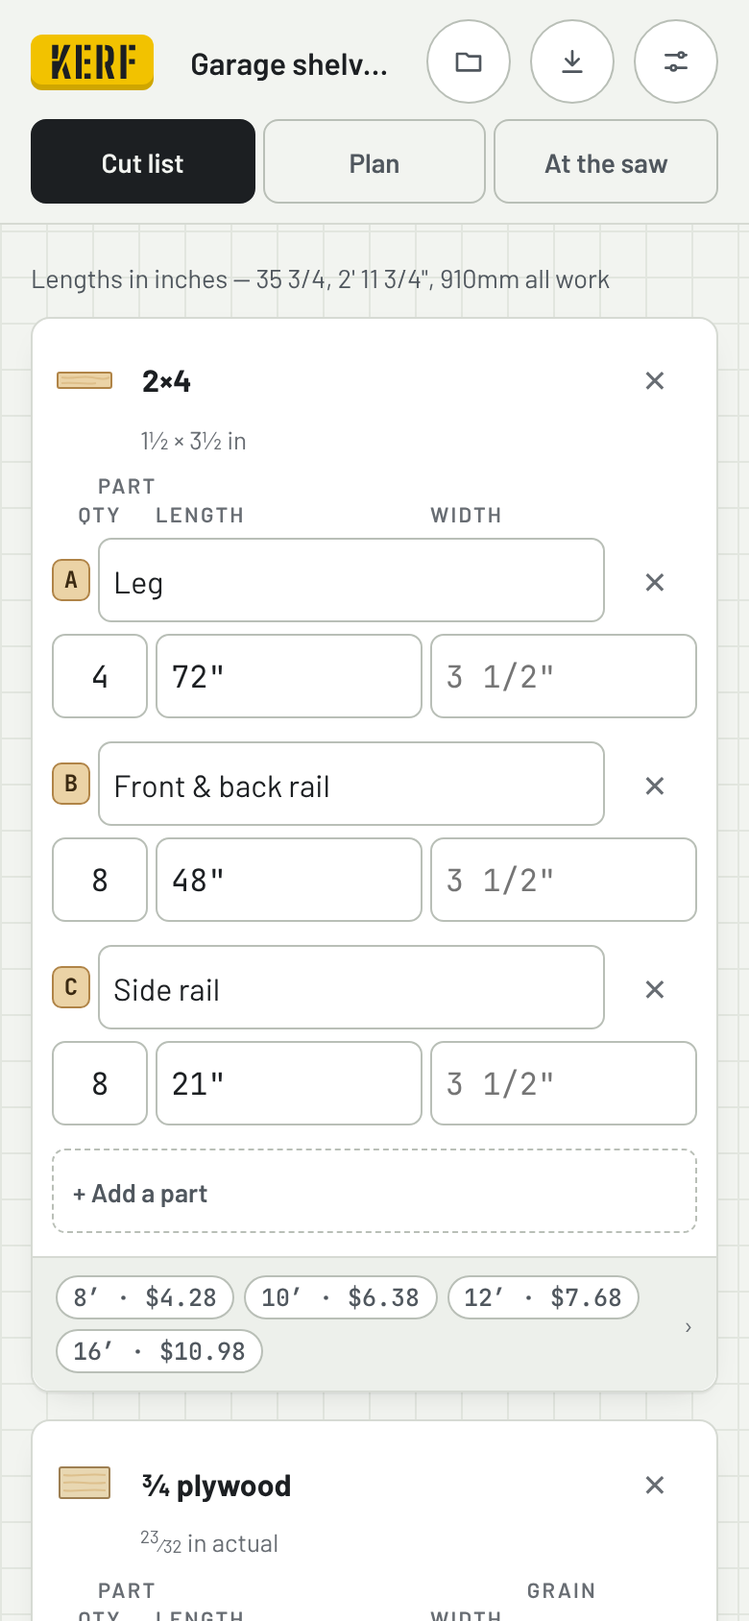
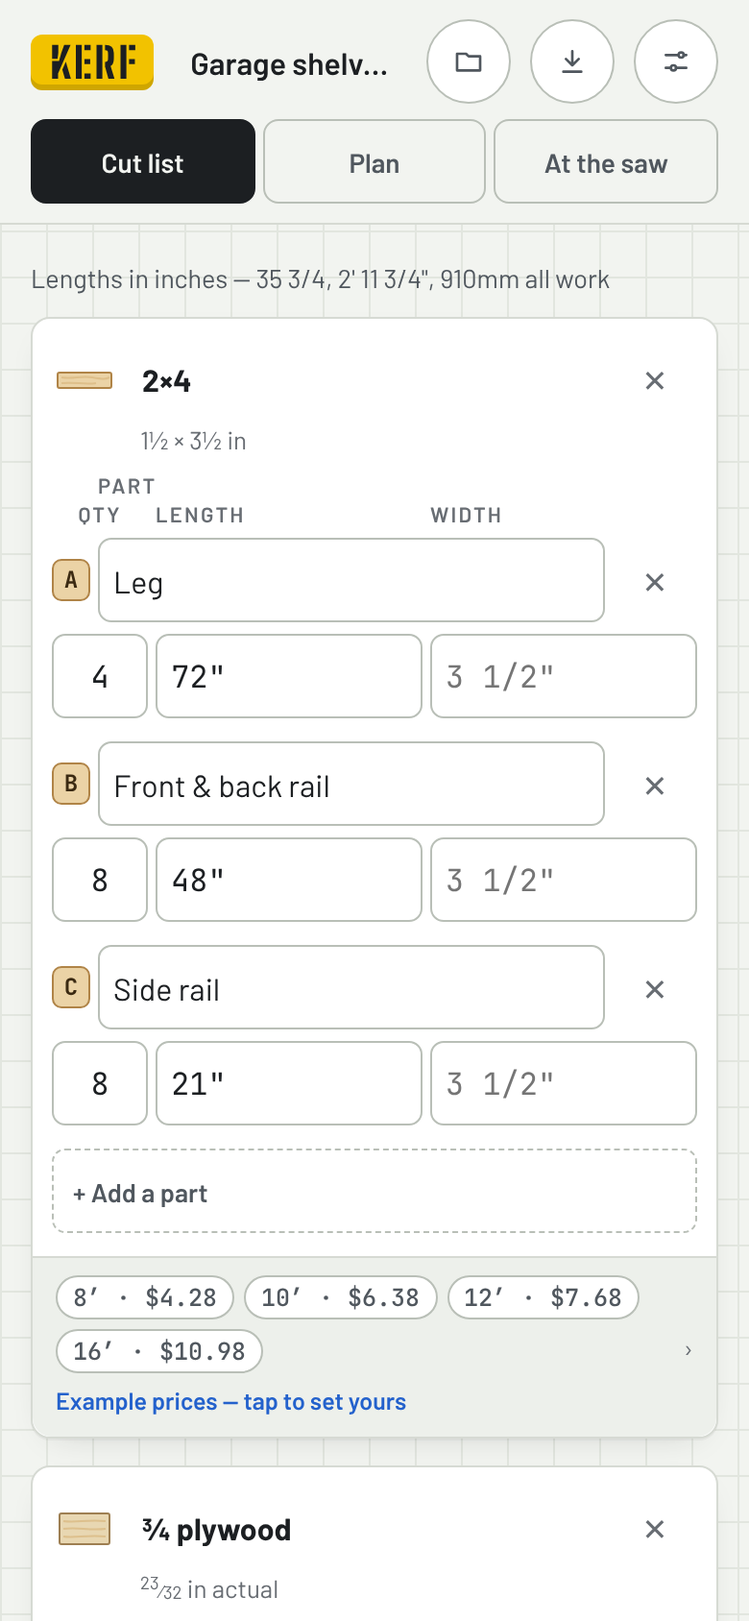
Remember your prices for each kind of wood, and say when a material's are examples
Answers "Remember your prices for each kind of wood": every new material started at the example prices, with the
price drawer closed, so the same store prices were typed again in every project. Kerf now remembers, in this
browser, the last prices set for each kind on the Add material list (2×4, ¾ plywood...), size by size, under
kerf.prices apart from the projects, and the next one added starts at them. A material still on the examples,
including the example project's, says "Example prices — tap to set yours" under its sizes until a price is
changed; it's saved as examplePrices, kept by files and links and documented in the planner's format. The e2e checks
the line, the prices remembered and used in the same project and a new one, a sheet by its size, Other board, and
a file round trip. The picture of the cut list shows the line. FILES in sw.js follows.

Claude-Session: https://claude.ai/code/session_01PQbLNSZBMRZG8siQy7LTL3

diff --git a/index.html b/index.html
@@ -151,6 +151,8 @@ input.bad{border-color:var(--bad);background:var(--bad-soft)}
 .stock .chips{display:flex;flex-wrap:wrap;gap:5px;min-width:0}
 .chip{display:inline-flex;align-items:center;gap:4px;background:var(--surface);border:1px solid var(--line2);border-radius:999px;padding:2px 8px;font:500 12.5px var(--mono);color:var(--ink2);white-space:nowrap}
 .chip.have{border-style:dashed;color:var(--good)}
+.stock .eg{flex-basis:100%;color:var(--chalk);font-size:12.5px;font-weight:600}
+.stock[open] .eg{display:none}
 .stock-bd{padding:0 12px 12px}
 .srow{display:grid;grid-template-columns:minmax(0,1fr) 88px 110px 30px;gap:6px;align-items:center;padding:3px 0}
 .sheetmat .srow{grid-template-columns:minmax(0,1fr) minmax(0,1fr) 80px 110px 30px}
@@ -621,6 +623,28 @@ textarea{width:100%;min-height:110px;font:13px var(--mono);background:var(--surf
   }
   // What Other board and Other sheet start with.
   function otherPreset(kind, units) { return kind === 'board' ? { name: 'Board', note: '', stock: units === 'mm' ? [[2400, 5]] : [[96, 5]] } : { name: 'Sheet', note: '', stock: units === 'mm' ? [[2440, 1220, 40]] : [[96, 48, 40]] }; }
+  // Your prices: the last ones you set for each kind on the Add material list (a 2×4, ¾ plywood), kept in this browser
+  // apart from the projects, under kerf.prices, as { 'in board 2×4': { '96': 3.98, '120': 5.97 }, 'in sheet ¾ plywood':
+  // { '96x48': 52 } }. A new material of that kind starts at them; one that starts at the examples instead says so
+  // (`examplePrices`) until a price is changed. A material is that kind by its name, as the planner writes it too.
+  var PRICES = 'kerf.prices';
+  function presetOf(m, units) { var n = String(m.name || '').trim().toLowerCase(); return PRESETS[units][m.kind].filter(function (pr) { return pr.name.toLowerCase() === n; })[0] || null; }
+  function sizeKey(m, s) { var k = function (v) { return String(Math.round(v * 1000) / 1000); }; return m.kind === 'sheet' ? k(s.len) + 'x' + k(s.wid) : k(s.len); }
+  function yourPrices() { try { var o = JSON.parse(localStorage.getItem(PRICES)); return o && typeof o === 'object' && !Array.isArray(o) ? o : {}; } catch (e) { return {}; } }
+  function rememberPrices(m, units) {
+    var pr = presetOf(m, units); if (!pr) return;
+    var all = yourPrices(), key = units + ' ' + m.kind + ' ' + pr.name, mine = all[key] && typeof all[key] === 'object' ? all[key] : {};
+    m.stock.forEach(function (s) { if (!s.have) mine[sizeKey(m, s)] = +s.price || 0; });
+    all[key] = mine;
+    try { localStorage.setItem(PRICES, JSON.stringify(all)); } catch (e) { } // not kept, a new one starts at the examples
+  }
+  // A new material, from the Add material list: at your prices for its sizes where you've set them, else the examples.
+  function newMaterial(kind, preset, units) {
+    var m = materialFrom(kind, preset, units), pr = presetOf(m, units), mine = pr && yourPrices()[units + ' ' + kind + ' ' + pr.name], got = false;
+    if (mine && typeof mine === 'object') m.stock.forEach(function (s) { var v = mine[sizeKey(m, s)]; if (typeof v === 'number' && v >= 0 && isFinite(v)) { s.price = Math.round(v * 100) / 100; got = true; } });
+    if (!got) m.examplePrices = true;
+    return m;
+  }
   // A sheet part has a width and a grain; a board part may have a width (0 or none being the board's).
   function part(name, qty, len, wid, grain) { var p = { id: uid(), name: name, qty: qty, len: len }; if (wid != null) p.wid = wid; if (grain != null) p.grain = grain !== false; return p; }
   function blankProject(units) { return { id: uid(), name: 'Untitled project', units: units, kerf: units === 'mm' ? 3 / 25.4 : 0.125, trim: 0, edge: 0, keep: units === 'mm' ? 300 / 25.4 : 12, cur: CUR, updated: Date.now(), materials: [], done: {} }; }
@@ -631,6 +655,7 @@ textarea{width:100%;min-height:110px;font:13px var(--mono);background:var(--surf
     studs.parts = [part('Leg', 4, 72), part('Front & back rail', 8, 48), part('Side rail', 8, 21)];
     var ply = materialFrom('sheet', PRESETS.in.sheet[0], 'in');
     ply.parts = [part('Shelf', 4, 47.75, 23.75, true)];
+    studs.examplePrices = ply.examplePrices = true;
     p.materials = [studs, ply];
     return p;
   }
@@ -674,6 +699,7 @@ textarea{width:100%;min-height:110px;font:13px var(--mono);background:var(--surf
         fix(m, 'kind', function (v) { return v === 'board' || v === 'sheet'; }, function () { return 'board'; });
         fix(m, 'name', str, toStr('')); fix(m, 'note', str, toStr(''));
         if (m.kind === 'board' && m.wid != null) fix(m, 'wid', num, toNum(0));
+        if (m.examplePrices !== undefined && m.examplePrices !== true) { delete m.examplePrices; lost = true; }
         list(m, 'stock').forEach(function (s) { ['len', 'price', 'have'].concat(m.kind === 'sheet' ? ['wid'] : []).forEach(function (k) { fix(s, k, num, toNum(0)); }); });
         list(m, 'parts').forEach(function (q) {
           fix(q, 'name', str, toStr('')); ['qty', 'len'].concat(m.kind === 'sheet' ? ['wid'] : []).forEach(function (k) { fix(q, k, num, toNum(0)); });
@@ -1564,12 +1590,14 @@ textarea{width:100%;min-height:110px;font:13px var(--mono);background:var(--surf
     for (var s = ''; i >= 0; i = Math.floor(i / 26) - 1) s = String.fromCharCode(65 + i % 26) + s;
     return s;
   }
+  // The sizes and prices under a material, and while its prices are still Kerf's examples, a line saying so (a tap opens
+  // the drawer, and then it hides).
   function stockSummary(m) {
     return m.stock.map(function (s) {
       // in mm a sheet is in mm (1219 × 2438 mm), not 1.219 m×2.438 m or 609.5 mm×1.219 m; a board is as the plan has it
       var dims = m.kind !== 'sheet' ? fmtH(s.len, { ft: true }) : U === 'mm' ? sheetSize(s.wid, s.len) : fmtH(s.wid, { ft: true }) + '×' + fmtH(s.len, { ft: true });
       return '<span class="chip' + (s.have ? ' have' : '') + '">' + dims + ' · ' + (s.have ? s.have + ' on hand' : esc(money(+s.price || 0))) + '</span>';
-    }).join('');
+    }).join('') + (m.examplePrices ? '<span class="eg">Example prices — tap to set yours</span>' : '');
   }
   // A length in a field: in mm the bare number, so the field stays short (the cut list says it's in mm) and a phone can
   // offer its number pad; in inches as a tape reads, with the letter keyboard for the ' and " marks. Either way finely
@@ -1618,7 +1646,7 @@ textarea{width:100%;min-height:110px;font:13px var(--mono);background:var(--surf
           '<button class="icon" type="button" data-a="delstock" aria-label="Remove the ' + nm + ' size">✕</button></div>';
       });
       h += '<div class="addrow"><button class="lbtn" type="button" data-a="addstock">+ Size to buy</button><button class="lbtn" type="button" data-a="addhave">+ Offcut I already have</button></div>' +
-        '<p class="hint">Prices start as examples — set them to what your store charges. Offcuts you have are free, and used whenever they save buying.</p></div></details></article>';
+        '<p class="hint">Prices start as examples — set them to what your store charges. For each kind under Add material, Kerf remembers your prices in this browser, and the next one you add starts at them. Offcuts you have are free, and used whenever they save buying.</p></div></details></article>';
     });
     // the columns' names, for the fields' names
     h += '<span id="c-qty" hidden>Quantity</span><span id="c-len" hidden>Length</span><span id="c-wid" hidden>Width</span><span id="c-grain" hidden>Keep grain along the length</span>';
@@ -1683,6 +1711,7 @@ textarea{width:100%;min-height:110px;font:13px var(--mono);background:var(--surf
         // what's left must be one number: "3439.98.00", a new price typed after an old one, is marked and not used
         var n = t.replace(/[^\d.]/g, ''), bad = !!t && (n.split('.').length > 2 || !(parseFloat(n) >= 0));
         v = parseFloat(n); el.classList.toggle('bad', bad); if (!bad) s.price = v >= 0 ? Math.round(v * 100) / 100 : 0; // to the cent, so the shopping list adds up to its total
+        if (!bad) { delete m.examplePrices; rememberPrices(m, U); }
       }
       else if (f === 'have') {
         // "Have 1" on a size you buy means you own one of them, not that it's all there is: the size stays on the list to
@@ -1780,7 +1809,7 @@ textarea{width:100%;min-height:110px;font:13px var(--mono);background:var(--surf
     var b = e.target.closest('button'); if (!b) return;
     if (b.dataset.add) {
       var k = b.dataset.add.split(':'), kind = k[0], pre = k[1] === 'x' ? otherPreset(kind, U) : PRESETS[U][kind][+k[1]];
-      var m = materialFrom(kind, pre, U); P.materials.push(m); touch(); renderList(); resolve(); addPart(m, 'pname');
+      var m = newMaterial(kind, pre, U); P.materials.push(m); touch(); renderList(); resolve(); addPart(m, 'pname');
       // A board or sheet not on the list gets its name first, typed over the plain 'Board' or 'Sheet'.
       if (k[1] === 'x') { var nm = document.querySelector('.mat[data-mid="' + m.id + '"] .mat-name'); nm.focus(); nm.select(); }
       return;
@@ -2627,6 +2656,7 @@ textarea{width:100%;min-height:110px;font:13px var(--mono);background:var(--surf
           return part(pname, qty, num(r.len, 0, 1200), sheet ? num(r.wid, 0, 1200) : num(r.wid, 0, 1200) || null, sheet ? r.grain !== false : null);
         }) };
       if (!sheet && num(m.wid, 0, 1200)) c.wid = num(m.wid, 0, 1200); // a board's width, for parts ripped narrower
+      if (m.examplePrices === true) c.examplePrices = true; // its prices are still Kerf's examples
       if (!c.stock.length && c.parts.length) { c.stock = materialFrom(c.kind, otherPreset(c.kind, units), units).stock; notes.push(name + ' came with no size to buy, so it has Kerf’s usual ' + (sheet ? 'sheet' : 'board') + '. Check the sizes.'); }
       return c;
     }).filter(function (m) { return m.stock.length; }); // with no size and no parts, there's nothing in it

diff --git a/sw.js b/sw.js
@@ -8,7 +8,7 @@
 // fingerprint of every file in SHELL: change any of them and test/e2e.mjs fails until FILES is changed to match (it
 // says what to), which changes this file, so every copy is made whole again at once.
 const CACHE = 'kerf-v4'; // bump the number when the file list changes
-const FILES = '6d8e27b6'; // test/e2e.mjs checks this
+const FILES = '666e85b4'; // test/e2e.mjs checks this
 const SHELL = [
   './', 'index.html', 'carry.js', 'icon.svg', 'icon-180.png', 'icon-192.png', 'icon-512.png', 'icon-512-maskable.png',
   'manifest.webmanifest',

diff --git a/README.md b/README.md
@@ -5,7 +5,7 @@
 **A cut-list optimizer for lumber and plywood.** List the parts a project needs; Kerf works out the cheapest boards and sheets to buy, draws how to cut each one, and gives you a checklist to work through at the saw. It plans construction lumber and sheet goods bought by the piece, a 2×4 or a sheet of plywood at a price each, not hardwood sold by the board foot. It installs as an app (from the browser's menu, or Share → Add to Home Screen on an iPhone) and works offline once it has loaded.
 
 <p align="center">
-  <img src="docs/phone-list.png" alt="The cut list for a set of garage shelves: how to type lengths, then the 2×4 legs, front and back rails and side rails, each named on one line with its quantity, length and width below (the width left blank, showing the board's 3½ inches), above the 2×4 sizes you can buy and what they cost" width="250">
+  <img src="docs/phone-list.png" alt="The cut list for a set of garage shelves: how to type lengths, then the 2×4 legs, front and back rails and side rails, each named on one line with its quantity, length and width below (the width left blank, showing the board's 3½ inches), above the 2×4 sizes you can buy and what they cost, with a line saying the prices are examples to set" width="250">
   &nbsp;
   <img src="docs/phone-plan.png" alt="The plan: $100.64 to buy, the 2×4s the cheapest possible, for 8 boards and 1 sheet in 26 cuts, a tip that making the front and back rails 47 15/16 inches instead of 48 means spending $4.12 less on 2×4 and leaves no spare length on the 8-foot boards, and the shopping list" width="250">
   &nbsp;
@@ -25,7 +25,7 @@
 - **Shop PDF.** A printable sheet with the shopping list (and the offcuts worth keeping and the project's notes under it) and every diagram, drawn to read in black and white: parts white, offcuts and what's left of a sheet hatched and labelled with their size. Boards cut alike are drawn once, and parts are named where they fit, as in the plan on a wide screen. It's the checklist at the saw on paper too, with a box to tick before every cut the saw counts: under each row of boards come their cuts in order, each with its measurement and part and a box for every board in the row (numbered over them, or one box and the count for more than 16), and each sheet's numbered steps start with a box, its trims first.
 - **Projects** are kept in the browser's local storage, with no account and no server. To move one to another device, save it as a file or copy it as text, then open or paste it there. Deleting one takes two taps, and the toast after it has **Undo** for a few seconds, which brings the project back where it was in the list, ticks and all. With Kerf open in two windows, a project added, changed or deleted in one shows up in the other, and so does one brought back. If the browser won't keep them (its storage is full, or cookies are blocked), a strip under the top bar says so until a save works, with a button to save the project as a file.
 
-Settings per project: saw kerf (⅛″ by default; a thin-kerf 3/32″ or 2.2 mm shows as typed, there and on the shop PDF), trimming each board end square, trimming sheet edges (that much comes off each factory edge of a sheet before any other cut: each sheet is planned that much smaller all round, its steps start with **Trim the factory edges**, and a part that fits only with the edges left on says so), the smallest offcut worth keeping (an offcut that shows as that length counts, though the sums leave it a hair short), and the currency sign. The preset prices are examples; change them to what your store charges.
+Settings per project: saw kerf (⅛″ by default; a thin-kerf 3/32″ or 2.2 mm shows as typed, there and on the shop PDF), trimming each board end square, trimming sheet edges (that much comes off each factory edge of a sheet before any other cut: each sheet is planned that much smaller all round, its steps start with **Trim the factory edges**, and a part that fits only with the edges left on says so), the smallest offcut worth keeping (an offcut that shows as that length counts, though the sums leave it a hair short), and the currency sign. The preset prices are examples, and a material still on them says *Example prices — tap to set yours* under its sizes until a price is changed. Kerf remembers the last prices you set for each kind on the Add material list (a 2×4, ¾ plywood), size by size, in this browser (under `kerf.prices` in local storage, apart from the projects), and the next one you add starts at them; a material is that kind by its name.
 
 ## How it plans
 
@@ -72,7 +72,7 @@ The format is the project JSON, compressed with raw DEFLATE and base64url-encode
 
 ## Project files
 
-A saved project is JSON: `{"kerf": 1, "project": {…}}`. Lengths are stored in inches whatever the display units. Opening a file, or pasting a project's text into Projects, shows what's in it and asks first, the way a link does. It keeps only fields Kerf understands and clamps the numbers, so a hand-edited file can't break the page. It opens up to 100 materials, 50 sizes and 1000 parts in each, names up to 200 characters, notes up to 2,000, and lengths up to 1200″ (100 ft), well past what the cut list makes, so whatever Kerf saves opens again whole; past those limits it keeps the first and says what it left out before adding anything. A part asking for more than Kerf plans of one part (500 of a board part, 300 of a sheet part) says so where it opens, and keeps its count. A board material's `wid` is its board's width, and a board part's `wid` a part ripped narrower (none, or 0, is the whole board). A part with no count comes in as one, a sheet part with no grain as grain-locked, and a material with parts but no size to buy gets the size **Other board** or **Other sheet** starts with, with a note to check it. Something with nothing Kerf can read in it says so instead of adding an empty project.
+A saved project is JSON: `{"kerf": 1, "project": {…}}`. Lengths are stored in inches whatever the display units. Opening a file, or pasting a project's text into Projects, shows what's in it and asks first, the way a link does. It keeps only fields Kerf understands and clamps the numbers, so a hand-edited file can't break the page. It opens up to 100 materials, 50 sizes and 1000 parts in each, names up to 200 characters, notes up to 2,000, and lengths up to 1200″ (100 ft), well past what the cut list makes, so whatever Kerf saves opens again whole; past those limits it keeps the first and says what it left out before adding anything. A part asking for more than Kerf plans of one part (500 of a board part, 300 of a sheet part) says so where it opens, and keeps its count. A material with `"examplePrices": true` is still on Kerf's example prices, and says so in the cut list. A board material's `wid` is its board's width, and a board part's `wid` a part ripped narrower (none, or 0, is the whole board). A part with no count comes in as one, a sheet part with no grain as grain-locked, and a material with parts but no size to buy gets the size **Other board** or **Other sheet** starts with, with a note to check it. Something with nothing Kerf can read in it says so instead of adding an empty project.
 
 In the browser, projects are kept under `kerf.v1` in local storage, with the number of the format they're saved in, `v` (now 1), raised whenever that shape changes. A page that finds a higher number, saved by a newer Kerf in another window, doesn't read it, take it in or write over it: it stops saving and asks for a reload. If that's ever damaged, by a browser add-on or a hand edit, Kerf repairs what it can, keeps the text as it was under `kerf.v1.bad`, and says so in a strip under the top bar, with a button to save that copy as a file (`kerf-damaged.txt`).
 
@@ -111,7 +111,7 @@ To put it online with GitHub Pages: **Settings → Pages → Build and deploymen
 - **Sheets:** 100 jobs with parts that tile a sheet exactly or fill what a rip leaves, in inches and millimetres, some of them planned as strip layouts and some with the sheets' edges trimmed first, and 40 boards ripped into narrower parts, some with their ends trimmed. Sawn step by step, every cut runs edge to edge across the piece it names, at the distance it gives; each step's part is what's left on the near side of its cut, and "what's left is" the part beyond it; every part comes off whole and is named by exactly one step; and every offcut the drawing labels is a piece left over, of that size.
 - **A long run of edits:** 150 seeded edits in one session, with ticks at the saw, tips taken and going back to an earlier copy, and 150 more in a project with a 1×6 ripped into parts, its parts' widths and boards' widths changing too: after each, the plan kept between edits is the one a fresh start finds, every tip still shown saves what it says, and every tick is on the cut it was made on.
 
-`test/e2e.mjs` uses the real page in Chromium at phone size (it needs Playwright). It opens the example and checks its total, runs the kerf-planner skill's `make_kerf.py` on the plan in its instructions and opens the link and the file it writes, checking each part's name, count and length (skipped without `python3`), opens a link and a project file as the skill makes them (and broken links, links that picked up a full stop or a line break, the same project opened again by link, file and pasted text, a project of 201 parts saved as a file and opened whole, and what's past the limits, and on an iPhone, the note and Copy link for Kerf on the home screen), ticks cuts at the saw and reloads, gathers the offcuts worth keeping under the shopping list, on the shop PDF and at the saw once the job is done, keeps a project's notes through a reload and prints them on the shop PDF's first page, names the parts in the drawings at laptop width and on the shop PDF (a long name cut short to fit) but not on a phone, draws the example's boards cut alike once in the plan and the shop PDF and folds them at the saw (board 2 opens on a press, and by itself once board 1 is done, its ticks its own through a reload), draws a sheet's card at the saw (its heading, the next cut standing out in its drawing, the cuts ticked faded, the cuts' numbers, folding the drawing away through a tick), folds a finished board to its heading (focus stays on it, a tap opens it, and ticking its last cut again folds it), finishes a job (the bar says so, and only the last tick toasts, not a reload), keeps the screen on while the checklist shows, marks the next cut and opens at it, keeps the saw's bar in sight with a Next cut that goes to it, checks that ticks stay on their cuts through edits (another material's, a count changed and changed back, end trim turned on, a sheet part resized where it sits), checks the steps for boards that need a last cut or end trim, the second fence setting for a rip wider than what it leaves, a face frame ripped from a 1×6 (its plan, saw steps, ticks through a reload and shop PDF, the parts' widths in the cut list and Enter along them, the board's width taken away and put back, and a part wider than the board), Undo after removing a part, after Start over and after deleting a project (with a second window open, where it comes back too, while a deletion not undone stays deleted), the plan's warnings (on a phone, its "see the cut list" goes to the part that doesn't fit, and the saw's empty state has a button to the cut list) and drawings (labels that fit their parts, and cut numbers on the sheet clear of each other and of the part letters, and on a cabinet's, a 50-piece job's and a mudroom bench's crowded sheets at 320 and 390 wide, clear of every size as well), that an edit plans again only the material it changes (renaming a part or typing the notes plans nothing, and the new name shows in the plan, at the saw and in the cut list) and that a reload then finds the same plan, the shop PDF's layout (a sheet of 36 steps keeps its heading and the legend company) and its boxes to tick (one for each cut the saw counts, a box for each board in a row, the boards' cuts in order), a 3/32″ kerf and lengths typed to the 32nd or the tenth of a millimetre reading back as typed, tips, that typing a slow material's length at a phone's pace plans it once and Enter plans it at once, Enter along a part, from a material's name to its first part, on the project's name and through Settings, the dialogs from the keyboard, where focus goes after removing a part, a size or a material or using a tip, when Kerf saves and what it says when it can't (storage full, or blocked), two windows open at once (opened on a first visit, they show one example between them), and damaged storage. Throughout, nothing may scroll sideways, throw an error or load from elsewhere. Its server answers the way GitHub Pages does (files kept for ten minutes, then asked for again by ETag), and can go down or stall. At the end, in a window that has been to Kerf once, it opens with the server down (the example, every typeface, a link, a project file and the shop PDF) and within 8 seconds on a stalled connection; a new release's offline copy comes from the server, not the browser's ten-minute-old files; Chromium finds nothing stopping it from installing; every font, icon and script the page and the manifest load is in `sw.js`'s list; and `sw.js`'s `FILES` matches those files.
+`test/e2e.mjs` uses the real page in Chromium at phone size (it needs Playwright). It opens the example and checks its total, runs the kerf-planner skill's `make_kerf.py` on the plan in its instructions and opens the link and the file it writes, checking each part's name, count and length (skipped without `python3`), opens a link and a project file as the skill makes them (and broken links, links that picked up a full stop or a line break, the same project opened again by link, file and pasted text, a project of 201 parts saved as a file and opened whole, and what's past the limits, and on an iPhone, the note and Copy link for Kerf on the home screen), ticks cuts at the saw and reloads, gathers the offcuts worth keeping under the shopping list, on the shop PDF and at the saw once the job is done, keeps a project's notes through a reload and prints them on the shop PDF's first page, remembers the prices set for a 2×4 or ¾ plywood for the next one added (and says when a material is on example prices), names the parts in the drawings at laptop width and on the shop PDF (a long name cut short to fit) but not on a phone, draws the example's boards cut alike once in the plan and the shop PDF and folds them at the saw (board 2 opens on a press, and by itself once board 1 is done, its ticks its own through a reload), draws a sheet's card at the saw (its heading, the next cut standing out in its drawing, the cuts ticked faded, the cuts' numbers, folding the drawing away through a tick), folds a finished board to its heading (focus stays on it, a tap opens it, and ticking its last cut again folds it), finishes a job (the bar says so, and only the last tick toasts, not a reload), keeps the screen on while the checklist shows, marks the next cut and opens at it, keeps the saw's bar in sight with a Next cut that goes to it, checks that ticks stay on their cuts through edits (another material's, a count changed and changed back, end trim turned on, a sheet part resized where it sits), checks the steps for boards that need a last cut or end trim, the second fence setting for a rip wider than what it leaves, a face frame ripped from a 1×6 (its plan, saw steps, ticks through a reload and shop PDF, the parts' widths in the cut list and Enter along them, the board's width taken away and put back, and a part wider than the board), Undo after removing a part, after Start over and after deleting a project (with a second window open, where it comes back too, while a deletion not undone stays deleted), the plan's warnings (on a phone, its "see the cut list" goes to the part that doesn't fit, and the saw's empty state has a button to the cut list) and drawings (labels that fit their parts, and cut numbers on the sheet clear of each other and of the part letters, and on a cabinet's, a 50-piece job's and a mudroom bench's crowded sheets at 320 and 390 wide, clear of every size as well), that an edit plans again only the material it changes (renaming a part or typing the notes plans nothing, and the new name shows in the plan, at the saw and in the cut list) and that a reload then finds the same plan, the shop PDF's layout (a sheet of 36 steps keeps its heading and the legend company) and its boxes to tick (one for each cut the saw counts, a box for each board in a row, the boards' cuts in order), a 3/32″ kerf and lengths typed to the 32nd or the tenth of a millimetre reading back as typed, tips, that typing a slow material's length at a phone's pace plans it once and Enter plans it at once, Enter along a part, from a material's name to its first part, on the project's name and through Settings, the dialogs from the keyboard, where focus goes after removing a part, a size or a material or using a tip, when Kerf saves and what it says when it can't (storage full, or blocked), two windows open at once (opened on a first visit, they show one example between them), and damaged storage. Throughout, nothing may scroll sideways, throw an error or load from elsewhere. Its server answers the way GitHub Pages does (files kept for ten minutes, then asked for again by ETag), and can go down or stall. At the end, in a window that has been to Kerf once, it opens with the server down (the example, every typeface, a link, a project file and the shop PDF) and within 8 seconds on a stalled connection; a new release's offline copy comes from the server, not the browser's ten-minute-old files; Chromium finds nothing stopping it from installing; every font, icon and script the page and the manifest load is in `sw.js`'s list; and `sw.js`'s `FILES` matches those files.
 
 ### Files
 

diff --git a/skill/kerf-planner/references/kerf-format.md b/skill/kerf-planner/references/kerf-format.md
@@ -40,6 +40,7 @@ Kerf reads a project as JSON: from a file (**Projects → Open a project file**)
 | `materials[]` | Up to 100 materials | — |
 | `materials[].kind` | `"board"` (one cross-section; parts have a length) or `"sheet"` (parts have a length and a width) | `"board"` |
 | `materials[].name`, `note` | Shown as the material's title and subtitle, up to 200 characters each | `"Board"` or `"Sheet"`, and no note |
+| `materials[].examplePrices` | `true` while the material's prices are Kerf's own examples: the cut list says so until one is changed. Leave it out for prices you were given | none |
 | `materials[].wid` | Boards only: the board's actual width in inches (a 1×6 is 5.5), up to 1200. With it, board parts can have a `wid` too, and are ripped from the board | none, and board parts' widths are ignored |
 | `stock[]` | Up to 50 sizes per material, to buy or already on hand: `len` (and `wid` for sheets) in inches, up to 1200, a sheet's `len` being the way its grain runs (a 4×8 sheet is `len` 96, `wid` 48); `price` each, up to 100000; `have` = pieces on hand (0 = buy; on-hand pieces are free and used whenever they save buying; at most 10) | `price` 0, which makes the size free, so always give one; `have` 0 |
 | `parts[]` | Up to 1000 rows per material: `name` (up to 200 characters), `qty` (whole number 1–500), `len` (inches, up to 1200), and for sheets `wid` and `grain`; for boards with a `wid`, an optional `wid` for a part ripped narrower than the board | `qty` 1; a board part's `wid`, the whole board's |
